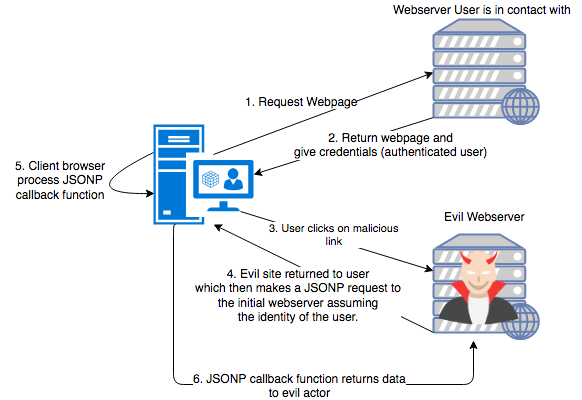
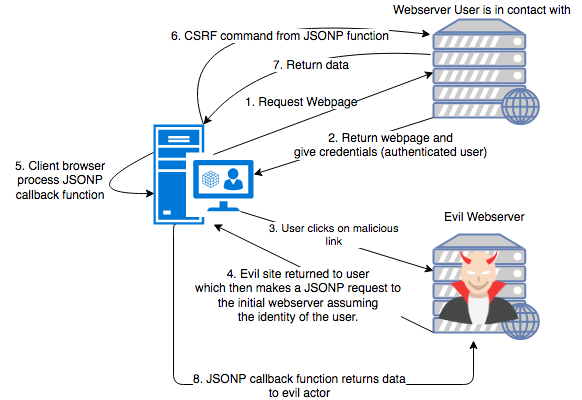
Initial Commit

diff --git a/JSONPAttack/docs/3.9.3_JSONP/3.9.3_JSONP.html b/JSONPAttack/docs/3.9.3_JSONP/3.9.3_JSONP.html
@@ -17,11 +17,28 @@
 			</p>
 
 			<h3 id="description">Exercise Description</h3>
-			<p>Before we get into details, </p>
+			<p>Before we get into details, let's take a look at a valid use of JSONP, and get a little bit of history about why it was used. In the early 2000s there were no protections against cross origin data requests. This meant that you could grab information from any server with XMLHttpRequests, which was a much desired feature for developing websites. This let you shift getting data from external APIs to the front end, instead of having to set up a backend service to fetch it. This was a form of shifting work onto the client, reducing the server costs for hosts.</p>
+
+			<p>Developers soon discovered that it's a security risk to allow fetching data from other webservers was dangerous in the front end, so all browsers implemented a Same Origin Policy (SOP). This blocked browsers from rendering content from websites that make requests to URIs that aren't of the same origin (domain, port, and protocol).</p>
+
+			<p>In response, developers decided to circumnavigate the SOP by inserting the desired return data as an argument to a function call, and returning that to the user. This meant that they could sneak their data in over the <code>script</code> tag. Here's an example of a legitimate use of JSONP.</p> 
+
+			<img class="figure" src="JSONP_Not_Malicious.png"/>
+
+			<p>The client first visits a page, which returns HTML that includes a <code>script</code> tag to call an external server. That external server then returns the data wrapped in a callback function, which is ran by the client's browser.</p>
+
+			<p>The objective of this exercise is to craft an evil page that a client would click on, which would then make a call to another server they are authenticated with, collect data, and return it to the malicious server.</p>
+
+			<p>
+				Here is a diagram representing the attack. In this diagram, the first step is for the user to authenticate with a website. Then, the user needs to click on a link to a malicious HTML page, which will be rendered by the client's browser. The malicious HTML, when rendered, will fetch data from the vulnerable server and then send it to the malicious webserver. 
+			</p>
+			<img class="figure" src="JSONP_Malicious.png" />
 			
 			<p>
-                In this exercise, we provide a two small HTTP servers developed using Flask, a python HTTP microframework.  The first server, <code>vulnerable.py</code>, returns static json wrapped in a provided callback function to anyone who makes a GET request to it. The second server, <code>evil.py</code>, provides an evil HTML file that will send data from the user's browser to the evil webserver. These naive servers do not have any form of authentication or support querying data. For the purposes of this exercise, we will not consider the implications of these traits. Instead,we will focus on the potential for cross site request forgery. Your objective is to craft a request forgery that will act on behalf of the client to send data from the vulnerable web server to malicious web server.
+                In this exercise, we provide a two small HTTP servers developed using Flask, a python HTTP microframework.  The first server, <code>vulnerable.py</code>, returns static JSON wrapped in a provided callback function to anyone who makes a GET request to it. The second server, <code>evil.py</code>, provides an evil HTML file that will send data from the user's browser to the evil webserver. These naive servers do not have any form of authentication or support querying data. For the purposes of this exercise, we will not consider the implications of these traits. Instead,we will focus on the potential for cross site request forgery. Your objective is to craft a request forgery that will act on behalf of the client to send data from the vulnerable web server to malicious web server.
 			</p>
+
+			
 
 			<p>
                 The program has three source files: <code>vulnerable.py</code>, <code>evil.py</code>, and <code>templates/index.html</code>. The first server, <code>vulnerable.py</code>, will run on <code>localhost:5000</code> while the second, <code>evil.py</code>, will run on <code>localhost:5001</code>. The following table summarizes each file's purpose.
@@ -36,7 +53,7 @@
 				<tr>
 					<td><code>vulnerable.py</code></td>
 					<td><code>localhost:5000</code></td>
-					<td>Returns JSONP to a calling client.<b> You will not need to change this file.</b></td>
+					<td>Returns JSONP to a calling client.<b> You will need to change this file to complete the mitigation.</b></td>
 				</tr>
 				<tr>
 					<td><code>evil.py</code></td>
@@ -51,10 +68,10 @@
                 <tr>
 					<td><code>mitigated.py</code></td>
 					<td><code>localhost:5002</code></td>
-					<td>Server to be used to demonstare the mitigation of a JSONP attack. <b>You will need to modify this file to complete the mitigation.</td>
+					<td>Server to be used to demonstate the mitigation of a JSONP attack. <b>You will need to modify this file to complete the mitigation.</b></td>
 				</tr>
 				<tr>
-						<td><code>mitigated.html</code></td>
+						<td><code>templates/mitigated.html</code></td>
 						<td><code>localhost:5002</code></td>
 						<td>Webpage rendered by <code>mitigated.py</code>, which accesses data from <code>localhost:5000</code> without JSONP.</b></td>
 					</tr>
@@ -62,24 +79,21 @@
 			</table>
 
 			<h3 id="mitigation_description">Vulnerability Mitigation</h3>
-			<p>
-				Two common protections against cross site request forgery are checking origin headers and implementing session-specific synchronizer tokens. For a nearly comprehensive approach to cross site request forgery mitigation, see the <a href="https://www.owasp.org/index.php/Cross-Site_Request_Forgery_(CSRF)_Prevention_Cheat_Sheet">OWASP Cross Site Request Forgery Prevention Cheat Sheet</a>. In many situations, it is preferred to use existing frameworks or libraries to protect against cross site request forgeries.
-			</p>
 
 			<p>
-				For this exercise, however, we will take a different approach. The goal of JSONP is to render data from a different origin. To do this, we will set up a proxy to fetch the desired data in the backend within the same origin, and then return that to the front end. 
+				The goal of JSONP is to render data from a different origin. Our goal is to maintain the same end result, but doing so securely. To do this, we will set up a proxy to fetch the desired data in the backend within the same origin, and then return that to the front end. Thus, we are shifting the load of getting data from the client onto our webserver.
 			</p>
 
 			<h2 id="instructions">Exercise Instructions</h2>
 			<p>
-				This exercise will be completed in the web browser and on the command line terminal of the provided virtual machine. To open the terminal, right-click on the "EXERCISES" directory and select "Open in Terminal". Then open one more terminal tab with <code>ctrl+shift+t</code> to have two tabs running. Enter the following command in each tab to change into the exercise directory:
+				This exercise will be completed in the web browser and on the command line terminal of the provided virtual machine. To open the terminal, right-click on the <code>EXERCISES</code> directory and select <code>Open in Terminal</code>. Then open one more terminal tab with <code>ctrl+shift+t</code> to have two tabs running. Enter the following command in each tab to change into the exercise directory:
 			</p>
 
 			<pre><code>$ cd 3.9.3_JSONP</code></pre>
 
 			<h3 id="compile" class="steps">Compile the Program</h3>
 			<p>
-                Python interprets your code at runtime, so there is no compilation step needed.
+                Python interprets your code at runtime, so there is no compilation step.
 			</p>
 			
 			<h3 id="run" class="steps">Run the Program</h3>
@@ -89,21 +103,33 @@
 
 			<pre><code>$ python3 vulnerable.py</code></pre>
 
+			<p>You should then see the following:</p>
+
+			<pre><code>
+* Serving Flask app "&ltname of server&gt" (lazy loading)
+* Environment: production
+	WARNING: Do not use the development server in a production environment.
+	Use a production WSGI server instead.
+* Debug mode: off
+* Running on http://127.0.0.1:5001/ (Press CTRL+C to quit)			   
+			</code></pre>
+
+			<p>Your terminal should be taken over.</p>
+
             <p>
-                In the second terminal tab, run the other server likeso:
+                In the second terminal tab, run the other server the same way:
             </p>
 
-            <pre><code>$ python3 evil.py</code></pre>
+			<pre><code>$ python3 evil.py</code></pre>
+			
+			<p>You will again see similar output.</p>
 
 			<p>
-                To stop either server, type <code>ctrl+c</code> in the command line interface. Currently, <code>vulnerable.py</code> does not have a web interface. If you visit <code>localhost:5000</code>, you will see JSON. The server is in place to simply return JSONP as a contrived example of what a production webserver may do. However, the evil webserver, <code>evil.py</code> has a web interface that you can visit by going to <code>localhost:5001</code> while <code>localhost:5000</code> is running.
+                To stop either server, type <code>ctrl+c</code> in the command line interface. Currently, <code>vulnerable.py</code> does not have a web interface. If you visit <code>localhost:5000</code>, you JSONP will be returned and be visible in the top left corner of your screen. The server is in place to simply return JSONP as a contrived example of what a production webserver may do. However, the evil webserver, <code>evil.py</code> has a web interface that you can visit by going to <code>localhost:5001</code> while <code>localhost:5000</code> is running.
                 To view the web site, open Firefox by clicking the globe icon in the bottom left hand corner of the screen. The malicious server is attached to <code>http://localhost:5001</code>.
 			</p>
 
-            <p>
-                Here is a diagram representing the attack. The first step is for the user to authenticate with a vulnerable website. Then, the user needs to click on a link to a malicious HTML page, which will be rendered by the client's browser. The malicious HTML, when rendered, will fetch data from the vulnerable server and then send it to the malicious webserver. 
-            </p>
-			<img class="figure" src="JSONP_Malicious.png" />
+            
 
 
 			<p><em>
@@ -112,7 +138,7 @@
 
 			<h3 id="inspect" class="steps">Inspect the Program Code</h3>
 			<p>
-				Now that you understand the basic behavior of the program, it's time to look at the implementation. As mentioned above, this program is implemented in three files. Use your favorite <a href="../text_editors.html">text editor</a> to open them. Enter the following command to open each file in Vi:
+				Now that you understand the basic behavior of the program, it's time to look at the implementation. As mentioned above, this program is implemented in three files. Use your favorite <a href="../text_editors.html">text editor</a> to open them. Enter the following command to open each file in vi:
 			</p>
 
 			<pre><code>$ vi vulnerable.py
@@ -120,7 +146,7 @@ $ vi evil.py
 $ vi templates/index.html</code></pre>
 
 			<p>
-				As you look through the code and trace the diagram, start to consider the following questions: what could I do if I had access to specify a callback function? How would this attack work if session tokens were stored as cookies, or passed in as parameters?
+				<strong>As you look through the code and trace the diagram, start to consider the following questions</strong>: what could I do if I had access to specify a callback function? What could a malicious user do if this attack used session tokens as cookies?
 			</p>
 			
 			<h3 id="exploit" class="steps">Exploit the Vulnerability</h3>
@@ -128,8 +154,10 @@ $ vi templates/index.html</code></pre>
 				
 			</p>
 
+			<p>You will have a successful exploit if you can have a user visit the malicious page, which will trigger the data from <code>vulnerable.py</code> to appear in <code>stdout</code> of the terminal window running <code>evil.py</code>. To complete this exploit, you will need to modify <code>evil.py</code> and <code>templates/evil.html</code></code></p>
+
 			<p>
-				To test this exploit, we will need three things: the vulnerable server, the malicious webserver, and a malicious webpage. First, run the server as we did in <a href="#run">Run the Program</a>. Next, edit <code>templates/index.html</code> to include our malicious <code>src</code> URI (this should include the URI to the vulnerable webserver, as well as a callback parameter <code>?callback=&ltfunction you'd like to run&gt</code>). Showing you have access to specify a callback function is cool, but what nasty things can we do with it? Try using the <code>fetch</code> API to send the data to the malicious webserver. Now, make sure you can see the <code>evil.py</code> server command line interface while you open <code>localhost:5001</code> in one browser tab.
+				To test this exploit, we will need three things: the vulnerable server, the malicious webserver, and a malicious webpage. First, run the server as we did in <a href="#run">Run the Program</a>. Next, edit <code>templates/evil.html</code> to include our malicious <code>src</code> URI (this should include the URI to the vulnerable webserver, as well as a callback parameter <code>?callback=&ltfunction you'd like to run&gt</code>). Showing you have access to specify a callback function is cool, but what nasty things can we do with it? Try using the <code>fetch</code> <a href="https://developer.mozilla.org/en-US/docs/Web/API/Fetch_API/Using_Fetch">API</a> to POST  data to the malicious webserver. Now, make sure you can see the <code>evil.py</code> server command line interface while you open <code>localhost:5001</code> in one browser tab.
 			</p>
 
 			<p>
@@ -138,18 +166,24 @@ $ vi templates/index.html</code></pre>
 			
 			<h3 id="mitigate" class="steps">Mitigate the Vulnerability</h3>
 
+			<p>A successful mitigation of this exploit will have a webpage that will be able to render the data from <code>localhost:5000</code> (<code>vulnerable.py</code>) without using JSONP. You will need to modify <code>vulnerable.py</code>, <code>templates/mitigated.html</code>, and <code>mitigated.py</code>.</p>
+
             <p>
-                To mitigate this attack,  we will have to restructure the architecture of our application. We need to restrict front end requests to a webserver in the same origin. This means that we will have to set up an endpoint to access an external API. In <code>mitigated.py</code>, lets access the data returned by <code>vulnerable.py</code> without using JSONP. Using the <a href="http://docs.python-requests.org/en/master/">requests</a> library, implement an API call to <code>vulnerable.py</code>, and then return that to the front end for Flask to render (using jinja2). To communicate data from the backend to the front end, you will need to use the <code>render_template</code> method from Flask. Here is an example of communicating data from the backend to the front end:
+                To mitigate this attack,  we will have to restructure the architecture of our application. We need to restrict front end requests to a webserver in the same origin. This means that we will have to set up an endpoint to access an external API. In <code>mitigated.py</code>, lets access the data returned by <code>vulnerable.py</code> without using JSONP. All that is needed to change in <code>vulnerable.py</code> is removing the <code>@jsonp</code> annotation. Simply returning the JSON will suffice for the <code>test()</code> function. In <code>mitigated.py</code>, use the <a href="http://docs.python-requests.org/en/master/">requests</a> library to implement an API call to <code>localhost:5000</code>(<code>vulnerable.py</code>), and then return that to the front end for Flask to render. To communicate data from the backend to the front end, you will need to use the <code>render_template</code> method from Flask. Here is an example of communicating data from the backend to the front end:
             </p>
 <pre><code>
+# this is the Flask backend
 from flask import Flask, render_template
 ...
 ...
-return render_template('mitigated.html', <strong>dataToTheFrontEnd</strong>=&ltdata you'd like to return to front end&gt)
+def run():
+	...
+	return render_template('mitigated.html', <strong>dataToTheFrontEnd</strong>=&ltdata you'd like to return to front end&gt)
 </code></pre>
 			From <code>mitigated.html</code>, you can access the returned data like so:
 <pre><code>
-!&lt-- standard HTML above and below --&gt
+&lt!-- This is the front end HTML. Flask will use a templating engine (jinja2)
+ to render the HTML and serve it to the front end. --&gt
 &ltp&gt Your data is: {{ <strong>dataToTheFrontEnd</strong> }} &lt/p&gt
 </code></pre>
 

diff --git a/JSONPAttack/templates/mitigated.html b/JSONPAttack/templates/mitigated.html
@@ -2,13 +2,13 @@
 ######################################################################
 # Project           : JSONP Attack
 #
-# Program name      : index.html
+# Program name      : mitigated.html
 #
 # Author            : Evan Kivolowitz
 #
 # Date created      : 02/19/2019
 #
-# Purpose           : HTML file returned by evil.py
+# Purpose           : HTML file returned by mitigated.py
 #
 # Credit            :
 #
@@ -19,6 +19,7 @@
 # Date        Author              Ref    Revision 
 # 02/19/2019  Evan Kivolowitz      1     Created prototype of project.
 # 02/28/2019  Evan Kivolowitz      2     Updated headers.
+# 02/28/2019  Evan Kivolowitz      3     Added hint.
 #
 ######################################################################
 -->
@@ -27,7 +28,7 @@
     <title>Mitigated JSONP</title>
 </head>
     <body>
-            <!-- <p>Data returned: {{ goes here }}</p> -->
+            <!-- <p>Show the returned data here: {{ data goes here }}</p> -->
 			<p>Om nom nom nom data that is rightfully mine!</p>
     </body>
 </html>

diff --git a/JSONPAttack/templates/evil.html b/JSONPAttack/templates/evil.html
@@ -2,7 +2,7 @@
 ######################################################################
 # Project           : JSONP Attack
 #
-# Program name      : index.html
+# Program name      : evil.html
 #
 # Author            : Evan Kivolowitz
 #
@@ -19,6 +19,7 @@
 # Date        Author              Ref    Revision 
 # 02/19/2019  Evan Kivolowitz      1     Created prototype of project.
 # 02/28/2019  Evan Kivolowitz      2     Updated headers.
+# 02/28/2019  Evan Kivolowitz      3     Renamed file.
 #
 ######################################################################
 -->

diff --git a/JSONPAttack/evil.py b/JSONPAttack/evil.py
@@ -21,7 +21,6 @@
 #
 ######################################################################
 from flask import Flask, request, render_template, jsonify
-from pprint import pprint
 app = Flask(__name__)
 
 @app.route("/")
@@ -32,7 +31,8 @@ def hello():
 def run():
     # Fill out this method to accept posts requests.
     # Simply print the body data to show you have successfully 
-    # stolen it.
+    # stolen it. You can use the pprint function to pretty print the json
+    # or simply cast it to a string and print it.
     return "Thank you for the data!"
 
 

diff --git a/JSONPAttack/mitigated.py b/JSONPAttack/mitigated.py
@@ -17,11 +17,14 @@
 #
 # Date        Author              Ref    Revision 
 # 02/19/2019  Evan Kivolowitz      1     Created prototype of project.
+# 02/28/2019  Evan Kivolowitz	   2	 Added a hint.
 #
 ######################################################################
 from flask import Flask, render_template
 import requests
 app = Flask(__name__)
+
+# You may see that both render_template and requests are imported but not used *wink wink*.
 
 @app.route("/")
 def run():

diff --git a/JSONPAttack/README.md b/JSONPAttack/README.md
@@ -1,7 +1,7 @@
 # JSONP Vulnerabilities
 ## The Wild West
 Long ago there were no protections against cross origin data requests. 
-This meant that you could grab information from any site with XMLHttpRequests (AJAX),
+This meant that you could grab information from any site with XMLHttpRequests,
 which was a much desired feature for developing websites. This let you shift getting data
 from external APIs to the front end, instead of having to set up a backend service to 
 act as a middle man for fetching data. 
